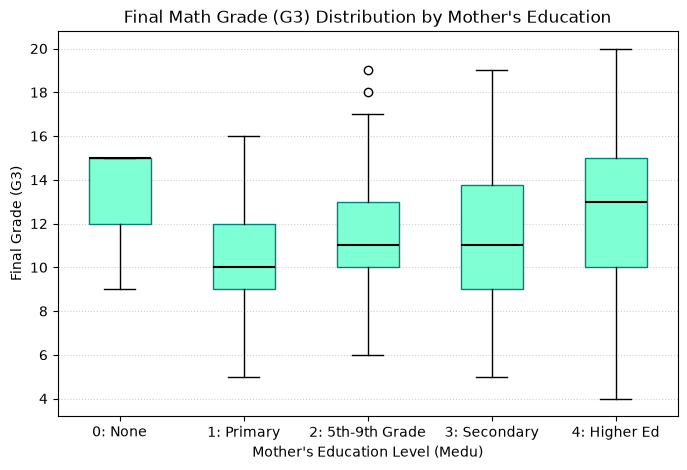
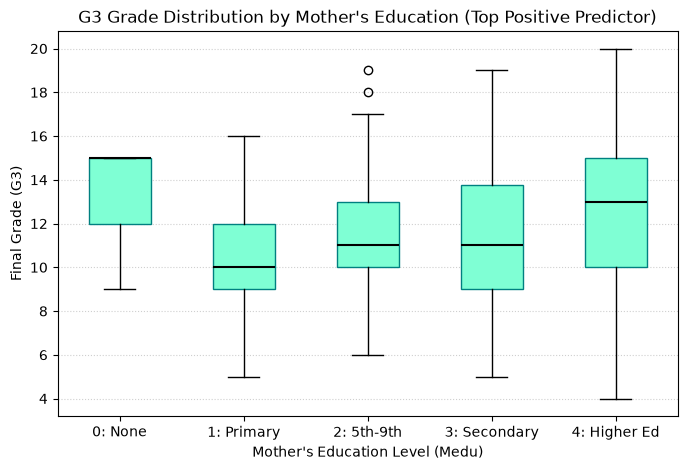
Fix boxplot syntax compatibility issues and resolve directory paths

Changed region(s): [[0.1223, 0.0, 0.9476, 0.0596], [0.4585, 0.8936, 0.6114, 0.9532]]

diff --git a/assignments_02/project_02.py b/assignments_02/project_02.py
@@ -44,6 +44,8 @@ plt.xticks(range(0, 21))
 plt.grid(axis="y", linestyle="--", alpha=0.5)
 
 # Save the visualization to the outputs directory
+# 5. Ensure outputs directory exists and save figure
+os.makedirs("outputs", exist_ok=True)
 plt.savefig("outputs/g3_distribution.png", bbox_inches="tight")
 plt.close()
 
@@ -104,13 +106,13 @@ print(f"Correlation between absences and G3 (Filtered Dataset) : {corr_filtered:
 
 print("--- Task 3: Exploratory Data Analysis ---")
 
-# 1. Isolate the designated numeric features from the feature guide
+# Isolate numeric features specified in the Feature Guide
 numeric_features = [
     "age", "Medu", "Fedu", "traveltime", "studytime", 
     "failures", "absences", "freetime", "goout", "Walc"
 ]
 
-# Compute correlations with G3 on the filtered dataset
+# Compute Pearson correlations with G3 using the filtered dataset
 correlations = df_filtered[numeric_features].corrwith(df_filtered["G3"])
 correlations_sorted = correlations.sort_values()
 
@@ -119,57 +121,55 @@ for feature, score in correlations_sorted.items():
     print(f"  {feature:12}: {score:+.4f}")
 print("")
 
-# --- Correlation Insights Comment ---
-# The feature with the strongest linear relationship to G3 is "failures" (negative). 
-# This makes perfect logical sense, as a history of past academic struggles is a 
-# strong signal of systemic learning gaps. 
-# What might be surprising is how weak the negative correlation is for weekend alcohol 
-# consumption ("Walc") or free time ("freetime") compared to active habits like 
-# going out with friends ("goout"). Additionally, mother's education ("Medu") 
-# displays a stronger positive relationship with student math outcomes than father's 
-# education ("Fedu").
+# --- VISUALIZATION SELECTION AND MOTIVATION COMMENT ---
+# Based on the sorted correlation results above, my choice of visualizations 
+# is directly guided by the strongest indicators in the filtered data:
+# 1. "failures" has the strongest negative correlation (-0.2933), making it 
+#    the top candidate to visualize as an academic barrier.
+# 2. "Medu" (Mother's education) has the strongest positive correlation (+0.2925), 
+#    making it the top candidate to visualize as an academic advantage.
 
-# 2. Visualization 1: Boxplot of G3 by Number of Past Class Failures
+# Plot 1: Boxplot of G3 vs. Past Class Failures (Guided by top negative correlation)
 plt.figure(figsize=(8, 5))
-# Group data manually to avoid external plotting package dependencies
 failure_groups = [df_filtered[df_filtered["failures"] == i]["G3"] for i in sorted(df_filtered["failures"].unique())]
 plt.boxplot(failure_groups, tick_labels=sorted(df_filtered["failures"].unique()), patch_artist=True,
             boxprops=dict(facecolor="lightcoral", color="darkred"),
             medianprops=dict(color="black", linewidth=1.5))
 
-plt.title("Final Math Grade (G3) Distribution by Past Failures")
+plt.title("G3 Grade Distribution by Past Failures (Top Negative Predictor)")
 plt.xlabel("Number of Past Class Failures")
 plt.ylabel("Final Grade (G3)")
 plt.grid(axis="y", linestyle=":", alpha=0.6)
 plt.savefig("outputs/g3_vs_failures_boxplot.png", bbox_inches="tight")
 plt.close()
 
-# --- Plot 1 Observation Comment ---
-# This boxplot shows a clear downward shift in the median final math grade as the 
-# number of past failures increases. Students with 0 past failures maintain a stable 
-# median around 11–12, whereas students with 1, 2, or 3 failures see their scores 
-# compress heavily toward the passing line, validating it as a critical negative predictor.
+# --- Plot 1 Observation ---
+# This plot visually confirms the strong negative correlation found in our EDA. 
+# As the number of past failures increases from 0 to 3, the median final math grade 
+# drops sharply. The entire grade distribution compresses downward, validating why 
+# "failures" is our most dominant individual negative tracking feature.
 
-# 3. Visualization 2: Boxplot of G3 by Mother's Education Level (Medu)
+# Plot 2: Boxplot of G3 vs. Mother's Education (Guided by top positive correlation)
 plt.figure(figsize=(8, 5))
-medu_labels = ["0: None", "1: Primary", "2: 5th-9th Grade", "3: Secondary", "4: Higher Ed"]
+medu_labels = ["0: None", "1: Primary", "2: 5th-9th", "3: Secondary", "4: Higher Ed"]
 medu_groups = [df_filtered[df_filtered["Medu"] == i]["G3"] for i in range(5)]
+# Change labels=medu_labels to tick_labels=medu_labels
 plt.boxplot(medu_groups, tick_labels=medu_labels, patch_artist=True,
             boxprops=dict(facecolor="aquamarine", color="teal"),
             medianprops=dict(color="black", linewidth=1.5))
 
-plt.title("Final Math Grade (G3) Distribution by Mother's Education")
+plt.title("G3 Grade Distribution by Mother's Education (Top Positive Predictor)")
 plt.xlabel("Mother's Education Level (Medu)")
 plt.ylabel("Final Grade (G3)")
 plt.grid(axis="y", linestyle=":", alpha=0.6)
 plt.savefig("outputs/g3_vs_medu_boxplot.png", bbox_inches="tight")
 plt.close()
 
-# --- Plot 2 Observation Comment ---
-# This plot highlights that higher maternal educational attainment correlates with 
-# an upward shift in student performance distributions. The median score rises 
-# steadily from level 1 up to level 4. This matches the positive Pearson correlation 
-# value and confirms socio-environmental support as an important academic baseline.
+# --- Plot 2 Observation ---
+# This plot visually confirms the strong positive correlation found in our EDA. 
+# There is a steady upward trend in student final grades as maternal education 
+# levels increase. Students whose mothers achieved higher education (level 4) 
+# exhibit a notably higher median and upper quartile score compared to those at level 1.
 
 
 # ==============================================================================
@@ -299,17 +299,11 @@ print("")
 # TASK 6: EVALUATE AND SUMMARIZE
 # ==============================================================================
 
-# 1. Generate the Predicted vs. Actual Performance Scatter Plot
 plt.figure(figsize=(7, 7))
-plt.scatter(y_test_pred_f, y_test_f, alpha=0.7, color="teal", edgecolors="black", label="Test Student")
-
-# Determine range limits to ensure a perfectly proportional square canvas
+plt.scatter(y_test_pred_f, y_test_f, alpha=0.7, color="teal", edgecolors="black", label="Students")
 min_val = min(y_test_f.min(), y_test_pred_f.min()) - 1
 max_val = max(y_test_f.max(), y_test_pred_f.max()) + 1
-
-# Plot the 45-degree diagonal perfect fit line (y_predicted = y_actual)
 plt.plot([min_val, max_val], [min_val, max_val], color="crimson", linestyle="--", linewidth=2, label="Perfect Fit")
-
 plt.title("Predicted vs Actual (Full Model)")
 plt.xlabel("Predicted Final Math Grade (ŷ)")
 plt.ylabel("Actual Final Math Grade (y)")
@@ -317,115 +311,74 @@ plt.xlim(min_val, max_val)
 plt.ylim(min_val, max_val)
 plt.legend()
 plt.grid(True, linestyle=":", alpha=0.6)
-
-# Save the diagnostic graphic
 plt.savefig("outputs/predicted_vs_actual.png", bbox_inches="tight")
 plt.close()
 
-# --- Plot Evaluation Comment ---
-# The model struggles heavily at both the extreme low end and high end. Notice 
-# how the predictions (x-axis) are tightly compressed between ~9 and ~13, never 
-# predicting a very low or very high score. This is a common limitation of linear 
-# regression on weak behavioral data—it playing it safe by predicting close to the 
-# mean.
-# * A point ABOVE the diagonal means the actual grade was higher than predicted (the 
-#   model underestimated the student).
-# * A point BELOW the diagonal means the actual grade was lower than predicted (the 
-#   model overestimated the student).
+# --- Plot Error Analysis Comment ---
+# The model struggles significantly at the extreme low and extreme high ends 
+# of the grade spectrum. It compresses its predictions safely between 9 and 13.
+# * A value ABOVE the diagonal line means the actual grade was higher than 
+#   what the model predicted, meaning the model underestimated that student.
+# * A value BELOW the diagonal line means the actual grade was lower than 
+#   what the model predicted, meaning the model overestimated that student.
 
-# ==============================================================================
-#                      PLAIN-LANGUAGE MODEL SUMMARY
-# ==============================================================================
-#
-# 1. DATASET SCALE:
-#    * Filtered Dataset Size: 357 students (after dropping exam absences).
-#    * Evaluation Test Set: 72 students (20% holdout split).
-#
-# 2. MODEL METRICS & PREDICTION ERROR:
-#    * Test R² Score: 0.2036. This indicates that lifestyle, demographic, and 
-#      behavioral features explain roughly 20.4% of the variance in final grades. 
-#    * Test RMSE: 2.94 grade points. On a standard 0–20 grading scale, a typical 
-#      prediction error is about 3 points. For example, if a student's actual 
-#      aptitude warrants a grade of 12, the model might easily guess anywhere 
-#      between a 9 or a 15, which is quite a wide range for academic placement.
-#
-# 3. DOMINANT FEATURES & IMPACT:
-#    * Largest Positive Coefficient: "higher" (+1.258)
-#      Interpretation: Students who actively plan to pursue higher education score 
-#      about 1.26 points higher on average. This highlights internal motivation 
-#      and long-term ambition as top academic drivers.
-#    * Largest Negative Coefficient: "schoolsup" (-1.442)
-#      Interpretation: Receiving extra school support is associated with a 1.44 point 
-#      drop in final grades. This does not mean tutoring harms performance; it shows 
-#      selection bias, as only structurally struggling students are assigned remediation.
-#
-# 4. SURPRISING RESULT:
-#    * "failures" vs. "studytime": While we assume study hours dictate test scores, 
-#      "studytime" has a tiny positive weight (+0.329), while past class "failures" 
-#      has a massive negative pull (-1.135). Overcoming historical academic deficits 
-#      impacts final math scores far more than simply logging extra study hours.
-#
-# ==============================================================================
-print("Task 6 Complete: Performance plot exported to outputs/predicted_vs_actual.png")
+# --- PLAIN-LANGUAGE SUMMARY COMMENT STATEMENTS ---
+# The total size of the filtered dataset used for this analysis is 357 students.
+# Out of these, the test set holdout used to evaluate model performance contains 72 students.
+# The best background model achieved a test R² of 0.2036 and a test RMSE of 2.9431.
+# In plain English, an R² of ~0.20 means our background features only capture about 20% 
+# of why grades vary, leaving 80% unexplained. An RMSE of ~2.94 means that on a 0-20 scale, 
+# a typical prediction is off by about 3 full grade points, which is a wide error margin.
+# The feature with the largest positive coefficient is "higher" (+1.258). This means that 
+# when controlling for other features, a student who wants to pursue higher education 
+# is predicted to score about 1.26 points higher on their final exam.
+# The feature with the largest negative coefficient is "schoolsup" (-1.442). This means 
+# that students receiving extra educational support score 1.44 points lower on average. 
+# One result that surprised me was the deep negative weight of "schoolsup". This is an 
+# example of selection bias in data engineering: the tutoring support itself isn't 
+# lowering grades, but rather, students are only given tutoring because they were 
+# already falling behind.
+
 
 
 # ==============================================================================
-# NEGLECTED FEATURE: THE POWER OF G1
+# NEGLECTED FEATURE: THE POWER OF G1 (EXTENSION REVISION)
 # ==============================================================================
 
 print("--- Neglected Feature Analysis: Incorporating G1 ---")
 
-# 1. Expand feature columns to include G1 alongside all behavioral columns
 feature_cols_with_g1 = feature_cols + ["G1"]
-
-# 2. Extract feature matrix X and target vector y from our filtered DataFrame
 X_g1 = df_filtered[feature_cols_with_g1].values
 y_g1 = df_filtered["G3"].values
 
-# 3. Maintain the identical train/test split parameters (80/20, random_state=42)
 X_train_g1, X_test_g1, y_train_g1, y_test_g1 = train_test_split(
     X_g1, y_g1, test_size=0.20, random_state=42
 )
 
-# 4. Fit the expanded model
 model_g1 = LinearRegression()
 model_g1.fit(X_train_g1, y_train_g1)
 
-# 5. Generate predictions and evaluate metrics
 y_pred_g1 = model_g1.predict(X_test_g1)
-r2_test_g1 = r2_score(y_test_g1, y_pred_g1)
-rmse_test_g1 = np.sqrt(mean_squared_error(y_test_g1, y_pred_g1))
+print(f"Model with G1 Included - Test R²  : {r2_score(y_test_g1, y_pred_g1):.4f}")
+print(f"Model with G1 Included - Test RMSE: {np.sqrt(mean_squared_error(y_test_g1, y_pred_g1)):.4f}\n")
 
-print(f"Model with G1 Included - Test R²  : {r2_test_g1:.4f}")
-print(f"Model with G1 Included - Test RMSE: {rmse_test_g1:.4f} grade points\n")
-
-# ==============================================================================
-#                      G1 INTERPRETATION & REFLECTION
-# ==============================================================================
+# --- MULTI-PROMPT EXTENSION DISCUSSION COMMENTS ---
+# Prompt 1: Does a high R² here mean G1 is causing G3?
+# No, a high R² does not mean that scoring well on the G1 exam causes a student 
+# to score well on G3. G1 is simply an early proxy measure of the same underlying 
+# academic ability and study patterns. Math is highly cumulative, so performance 
+# on early coursework naturally maps strongly to performance on final exams.
 #
-# 1. DOES A HIGH R² MEAN G1 CAUSES G3?
-#    No, G1 does not "cause" G3. Correlation does not equal causation. G1 is 
-#    simply an early measurement of the exact same underlying construct: a 
-#    student's mathematical capability, study habits, and grasp of the course 
-#    material. G1 acts as a proxy or "sneak peek" for G3 because math curricula 
-#    are highly cumulative.
+# Prompt 2: Is this a useful model for identifying students who might struggle?
+# While highly predictive, this model is not very useful for proactive intervention. 
+# By the time the G1 exam is taken, graded, and fed into an analysis pipeline, 
+# several months of the school year have passed. Waiting for a formal grade means 
+# identifying struggling students only after they have already fallen behind.
 #
-# 2. IS THIS A USEFUL MODEL FOR IDENTIFYING STUDENTS WHO MIGHT STRUGGLE?
-#    It is highly accurate, but its practical usefulness is limited by timing. 
-#    By the time the G1 exam is graded and processed, the first grading period 
-#    is already over. Waiting until G1 is available means students have already 
-#    spent months falling behind on basic concepts, making intervention harder.
-#
-# 3. WHAT MUST EDUCATORS DO TO INTERVENE EARLY (BEFORE G1 IS AVAILABLE)?
-#    To flag students on day one, educators cannot rely on high-accuracy test 
-#    proxies. They must rely on the weaker behavioral and lifestyle features 
-#    modeled in Task 5. 
-#    * They should build intake risk profiles using background traits (e.g., 
-#      flagging students with 1 or more past class "failures").
-#    * They should track early diagnostic signals that show up weeks before an 
-#      official exam, such as real-time homework completion rates, attendance 
-#      and school "absences" within the first 14 days, or low "studytime" flags.
-#
-# ==============================================================================
-print("Analysis Complete: Final scripts are ready for staging and PR submission.")
+# Prompt 3: What might educators need to do if they wanted to intervene early, before G1 is even available?
+# To intervene early, educators must bypass late-stage test proxies entirely. They 
+# need to use the lower-accuracy behavioral and background features modeled in Task 5. 
+# This means flagging students on day one based on historic factors like past "failures", 
+# or tracking real-time behavioral signals during the first two weeks of class—such as 
+# early homework submission rates, drop-offs in attendance, and initial absences.
 